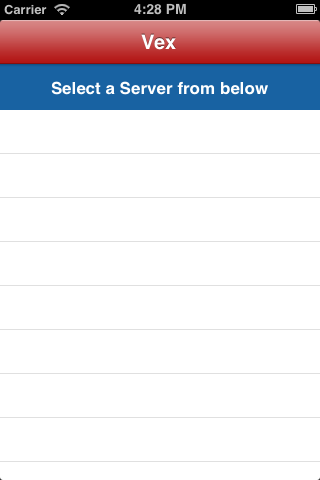
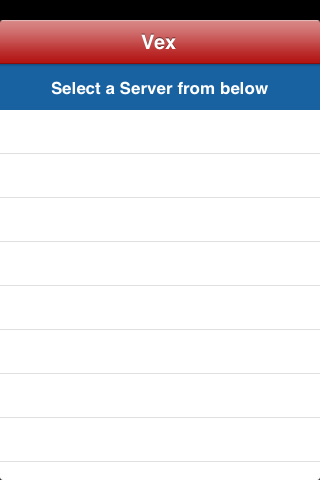
Tweaks
I tweaked the images to lose the status bar info.  also did another
tweak to the folder structure inside Xcode.

Changed region(s): [[0.0, 0.0, 0.2188, 0.0312], [0.4062, 0.0, 0.5938, 0.0312], [0.9062, 0.0, 1.0, 0.0312]]

diff --git a/Classes/AfterGameViewController.m b/Classes/AfterGameViewController.m
@@ -18,8 +18,8 @@
 - (id)initWithNibName:(NSString *)nibNameOrNil bundle:(NSBundle *)nibBundleOrNil
 {
     self = [super initWithNibName:nibNameOrNil bundle:nibBundleOrNil];
-    if (self) {
-		NSLog(@"zomg");
+    if (self)
+	{
 		self.title = @"Vex";
     }
     return self;
@@ -29,16 +29,15 @@
 {
     [super viewDidLoad];
 	
-	self.navigationItem.leftBarButtonItem = nil;
-	_contentView.contentSize = CGSizeMake(320, 715);
 	_contentView.frame = CGRectMake(0, 0, self.view.frame.size.width, self.view.frame.size.height);
+	_contentView.contentSize = CGSizeMake(320, 715);
+	
 	[[self view] addSubview:_contentView];
 }
 
 - (void)didReceiveMemoryWarning
 {
     [super didReceiveMemoryWarning];
-    // Dispose of any resources that can be recreated.
 }
 
 - (IBAction)stepperChanged:(UIStepper *)sender
